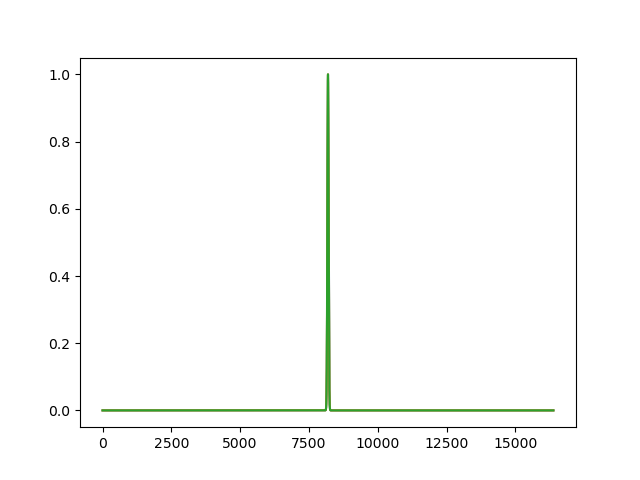
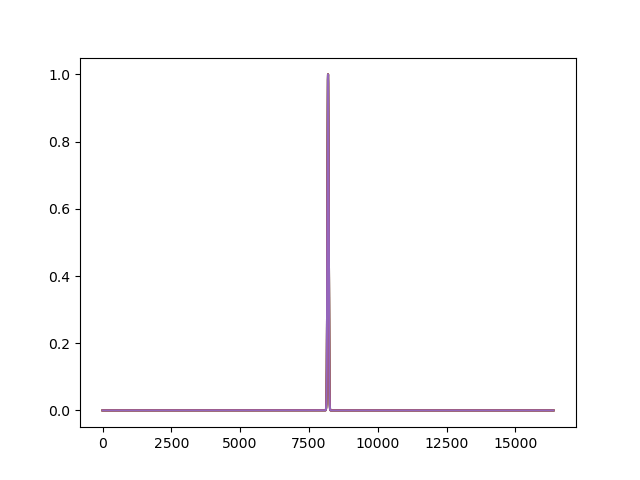
coverage for multiple wavelengths using array method

Changed region(s): [[0.1562, 0.1562, 0.875, 0.875]]

diff --git a/temporalFocusingModel.py b/temporalFocusingModel.py
@@ -138,9 +138,14 @@ def prop(lamm):
     #plt.plot(xdefocus)
    
     
-def display(x1c,x2c,x3c):
+def display(x1c,x2c,x3c,xdf):
     """displays plots at the focal plane at different wavelengths
     """
+    #I NEED to figure out how to initialize truly empty array to avoid this steps
+    
+    x1c = x1c[1:]
+    x2c = x2c[1:]
+    x3c = x3c[1:]
     x = 1
     plt.figure()
     while x <= len(x1c):
@@ -174,10 +179,9 @@ def display(x1c,x2c,x3c):
         y = y + 1
         zzz = y * (zs - 1)
     plt.imshow(dfsum,aspect='auto')
-    plt.imshow(xdf,aspect='auto')
     
 initialize()
-wavelengthlist = np.linspace(780*10**(-9),820*10**(-9),num=2)
+wavelengthlist = np.linspace(780*10**(-9),820*10**(-9),num=5)
 for lamb in wavelengthlist:
     prop(lamb)
     
